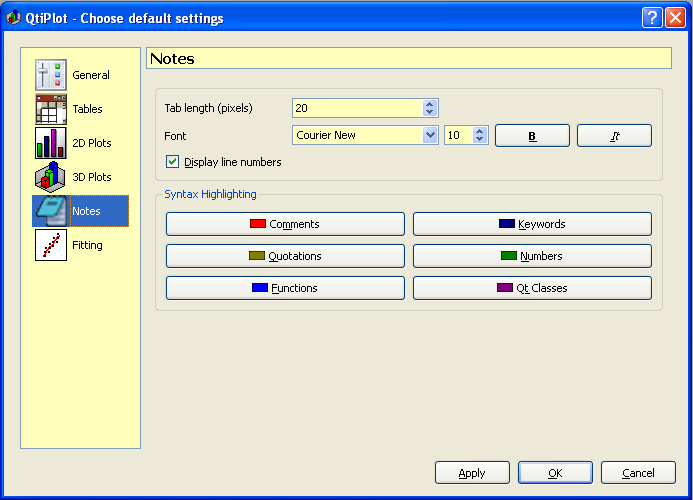
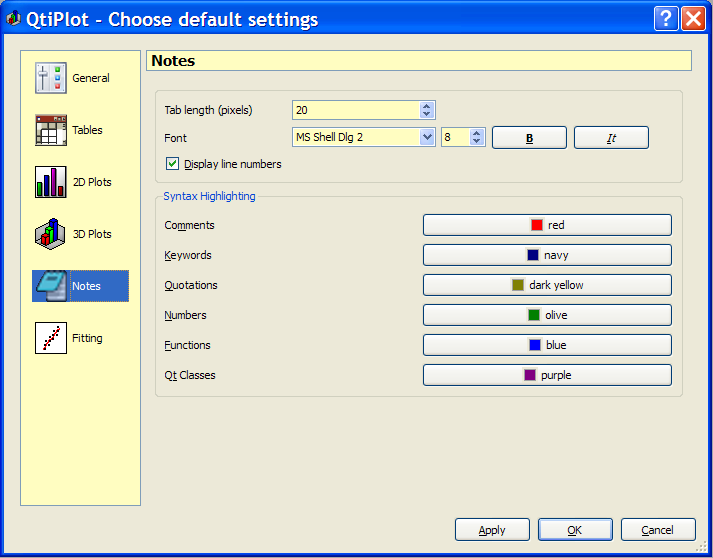
- Enabled syntax highlighting for muParser. - Fixed bug in Preferences dialog affecting the text displayed by the syntax color buttons. - Small improvements to the user manual.
git-svn-id: http://svn.berlios.de/svnroot/repos/qtiplot/trunk@1412 5a6a7de5-fb12-0410-b871-c33778c25c60

Changed region(s): [[0.0, 0.0, 1.0, 0.9], [0.0, 0.9, 1.0, 1.0], [0.0303, 0.9, 0.1818, 0.93]]

diff --git a/qtiplot/src/core/ConfigDialog.cpp b/qtiplot/src/core/ConfigDialog.cpp
@@ -1234,42 +1234,65 @@ void ConfigDialog::initNotesPage()
 	QVBoxLayout* vl = new QVBoxLayout(notesPage);
 	vl->addWidget(gb1);
 
-#ifdef SCRIPTING_PYTHON
 	groupSyntaxHighlighter = new QGroupBox();
 	QGridLayout *gl = new QGridLayout(groupSyntaxHighlighter);
+
+	buttonCommentLabel = new QLabel;
+	gl->addWidget(buttonCommentLabel, 0, 0);
 
 	buttonCommentColor = new ColorButton();
 	buttonCommentColor->setColor(app->d_comment_highlight_color);
 	connect(buttonCommentColor, SIGNAL(colorChanged()), this, SLOT(rehighlight()));
-	gl->addWidget(buttonCommentColor, 0, 0);
+	gl->addWidget(buttonCommentColor, 0, 1);
+	buttonCommentLabel->setBuddy (buttonCommentColor);
+
+	buttonKeywordLabel = new QLabel;
+	gl->addWidget(buttonKeywordLabel, 1, 0);
 
 	buttonKeywordColor = new ColorButton();
 	buttonKeywordColor->setColor(app->d_keyword_highlight_color);
 	connect(buttonKeywordColor, SIGNAL(colorChanged()), this, SLOT(rehighlight()));
-	gl->addWidget(buttonKeywordColor, 0, 1);
+	gl->addWidget(buttonKeywordColor, 1, 1);
+	buttonKeywordLabel->setBuddy (buttonKeywordColor);
+
+	buttonQuotationLabel = new QLabel;
+	gl->addWidget(buttonQuotationLabel, 2, 0);
 
 	buttonQuotationColor = new ColorButton();
 	buttonQuotationColor->setColor(app->d_quotation_highlight_color);
 	connect(buttonQuotationColor, SIGNAL(colorChanged()), this, SLOT(rehighlight()));
-	gl->addWidget(buttonQuotationColor, 1, 0);
+	gl->addWidget(buttonQuotationColor, 2, 1);
+	buttonQuotationLabel->setBuddy (buttonQuotationColor);
+
+	buttonNumericLabel = new QLabel;
+	gl->addWidget(buttonNumericLabel, 3, 0);
 
 	buttonNumericColor = new ColorButton();
 	buttonNumericColor->setColor(app->d_numeric_highlight_color);
 	connect(buttonNumericColor, SIGNAL(colorChanged()), this, SLOT(rehighlight()));
-	gl->addWidget(buttonNumericColor, 1, 1);
+	gl->addWidget(buttonNumericColor, 3, 1);
+	buttonNumericLabel->setBuddy (buttonNumericColor);
+
+	buttonFunctionLabel = new QLabel;
+	gl->addWidget(buttonFunctionLabel, 4, 0);
 
 	buttonFunctionColor = new ColorButton();
 	buttonFunctionColor->setColor(app->d_function_highlight_color);
 	connect(buttonFunctionColor, SIGNAL(colorChanged()), this, SLOT(rehighlight()));
-	gl->addWidget(buttonFunctionColor, 2, 0);
+	gl->addWidget(buttonFunctionColor, 4, 1);
+	buttonFunctionLabel->setBuddy (buttonFunctionColor);
+
+	buttonClassLabel = new QLabel;
+	gl->addWidget(buttonClassLabel, 5, 0);
 
 	buttonClassColor = new ColorButton();
 	buttonClassColor->setColor(app->d_class_highlight_color);
 	connect(buttonClassColor, SIGNAL(colorChanged()), this, SLOT(rehighlight()));
-	gl->addWidget(buttonClassColor, 2, 1);
+	gl->addWidget(buttonClassColor, 5, 1);
+	buttonClassLabel->setBuddy (buttonClassColor);
+	gl->setRowStretch(6, 1);
 
 	vl->addWidget(groupSyntaxHighlighter);
-#endif
 
 	vl->addStretch();
 }
@@ -1905,15 +1928,14 @@ void ConfigDialog::languageChange()
     labelTabLength->setText(tr("Tab length (pixels)"));
     labelNotesFont->setText(tr("Font"));
     lineNumbersBox->setText(tr("&Display line numbers"));
-#ifdef SCRIPTING_PYTHON
+
 	groupSyntaxHighlighter->setTitle(tr("Syntax Highlighting"));
-	buttonCommentColor->setText(tr("Co&mments"));
-	buttonKeywordColor->setText(tr("&Keywords"));
-	buttonNumericColor->setText(tr("&Numbers"));
-	buttonQuotationColor->setText(tr("&Quotations"));
-	buttonFunctionColor->setText(tr("&Functions"));
-	buttonClassColor->setText(tr("Q&t Classes"));
-#endif
+	buttonCommentLabel->setText(tr("Co&mments"));
+	buttonKeywordLabel->setText(tr("&Keywords"));
+	buttonNumericLabel->setText(tr("&Numbers"));
+	buttonQuotationLabel->setText(tr("&Quotations"));
+	buttonFunctionLabel->setText(tr("&Functions"));
+	buttonClassLabel->setText(tr("Q&t Classes"));
 
 	//Fitting page
 	groupBoxFittingCurve->setTitle(tr("Generated Fit Curve"));
@@ -2505,6 +2527,7 @@ void ConfigDialog::choosePythonConfigFolder()
 			app->setScriptingLanguage(QString("Python"), true);
 	}
 }
+#endif
 
 void ConfigDialog::rehighlight()
 {
@@ -2531,7 +2554,6 @@ void ConfigDialog::rehighlight()
         }
     }
 }
-#endif
 
 void ConfigDialog::customizeNotes()
 {

diff --git a/qtiplot/src/scripting/ScriptEdit.cpp b/qtiplot/src/scripting/ScriptEdit.cpp
@@ -49,7 +49,7 @@
 #include <QDockWidget>
 
 ScriptEdit::ScriptEdit(ScriptingEnv *env, QWidget *parent, const char *name)
-  : QTextEdit(parent, name), scripted(env), d_error(false), d_completer(0),
+  : QTextEdit(parent, name), scripted(env), d_error(false), d_completer(0), d_highlighter(0),
   d_file_name(QString::null), d_search_string(QString::null), d_output_widget(NULL)
 {
 	myScript = scriptEnv->newScript("", this, name);
@@ -63,12 +63,7 @@ ScriptEdit::ScriptEdit(ScriptingEnv *env, QWidget *parent, const char *name)
 	setTextFormat(Qt::PlainText);
 	setAcceptRichText (false);
 
-#ifdef SCRIPTING_PYTHON
-	if (scriptEnv->name() == QString("Python"))
-		d_highlighter = new PythonSyntaxHighlighter(this);
-	else
-#endif
-		d_highlighter = new SyntaxHighlighter(this);
+	rehighlight();
 
 	d_fmt_default.setBackground(palette().brush(QPalette::Base));
 
@@ -140,15 +135,7 @@ void ScriptEdit::customEvent(QEvent *e)
 		connect(myScript, SIGNAL(error(const QString&, const QString&, int)), this, SLOT(insertErrorMsg(const QString&)));
 		connect(myScript, SIGNAL(print(const QString&)), this, SLOT(scriptPrint(const QString&)));
 
-	#ifdef SCRIPTING_PYTHON
-		if (d_highlighter)
-			delete d_highlighter;
-
-		if (scriptEnv->name() == QString("Python"))
-			d_highlighter = new PythonSyntaxHighlighter(this);
-		else
-			d_highlighter = new SyntaxHighlighter(this);
-	#endif
+		rehighlight();
 	}
 }
 
@@ -611,15 +598,15 @@ void ScriptEdit::setDirPath(const QString& path)
 
 void ScriptEdit::rehighlight()
 {
-#ifdef SCRIPTING_PYTHON
-	if (scriptEnv->name() != QString("Python"))
-		return;
-
 	if (d_highlighter)
 		delete d_highlighter;
 
-	d_highlighter = new PythonSyntaxHighlighter(this);
+#ifdef SCRIPTING_PYTHON
+	if (scriptEnv->name() == QString("Python"))
+		d_highlighter = new PythonSyntaxHighlighter(this);
+	else
 #endif
+		d_highlighter = new SyntaxHighlighter(this);
 }
 
 void ScriptEdit::showFindDialog(bool replace)

diff --git a/qtiplot/src/scripting/PythonSyntaxHighlighter.h b/qtiplot/src/scripting/PythonSyntaxHighlighter.h
@@ -50,6 +50,19 @@ public:
 
 protected:
     void highlightBlock(const QString &text);
+
+	struct HighlightingRule
+	{
+		QRegExp pattern;
+		QTextCharFormat format;
+	};
+
+	QVector<HighlightingRule> highlightingRules;
+
+	QTextCharFormat commentFormat;
+	QTextCharFormat quotationFormat;
+	QTextCharFormat functionFormat;
+	QTextCharFormat numericFormat;
 };
 
 class PythonSyntaxHighlighter : public SyntaxHighlighter
@@ -63,19 +76,10 @@ protected:
     void highlightBlock(const QString &text);
 
 private:
-    struct HighlightingRule
-    {
-        QRegExp pattern;
-        QTextCharFormat format;
-    };
-    QVector<HighlightingRule> highlightingRules;
+	QVector<HighlightingRule> pythonHighlightingRules;
 
     QTextCharFormat keywordFormat;
     QTextCharFormat classFormat;
-    QTextCharFormat commentFormat;
-    QTextCharFormat quotationFormat;
-    QTextCharFormat functionFormat;
-	QTextCharFormat numericFormat;
 };
 
 #endif

diff --git a/qtiplot/src/core/ConfigDialog.h b/qtiplot/src/core/ConfigDialog.h
@@ -104,8 +104,8 @@ private slots:
 	void chooseHelpFolder();
 #ifdef SCRIPTING_PYTHON
 	void choosePythonConfigFolder();
-	void rehighlight();
 #endif
+	void rehighlight();
     void customizeNotes();
 	void chooseTexCompiler();
 	bool validateTexCompiler();
@@ -222,11 +222,11 @@ private:
 	QLabel *label3DGridsColor, *label3DGridsWidth, *label3DGridsStyle;
 	QGroupBox *groupBox3DGrids;
 
-#ifdef SCRIPTING_PYTHON
 	QGroupBox *groupSyntaxHighlighter;
 	ColorButton *buttonCommentColor, *buttonNumericColor, *buttonQuotationColor;
 	ColorButton *buttonKeywordColor, *buttonFunctionColor, *buttonClassColor;
-#endif
+	QLabel *buttonCommentLabel, *buttonNumericLabel, *buttonQuotationLabel;
+	QLabel *buttonKeywordLabel, *buttonFunctionLabel, *buttonClassLabel;
 };
 
 #endif // CONFIGDIALOG_H

diff --git a/qtiplot/src/scripting/ScriptEdit.h b/qtiplot/src/scripting/ScriptEdit.h
@@ -117,8 +117,8 @@ class ScriptEdit: public QTextEdit, public scripted
 	QString d_err_message;
 
 	QCompleter *d_completer;
-  	QString d_file_name;
 	SyntaxHighlighter *d_highlighter;
+	QString d_file_name;
 	QString d_search_string;
 	QTextDocument::FindFlags d_search_flags;
 	QTextEdit *d_output_widget;
